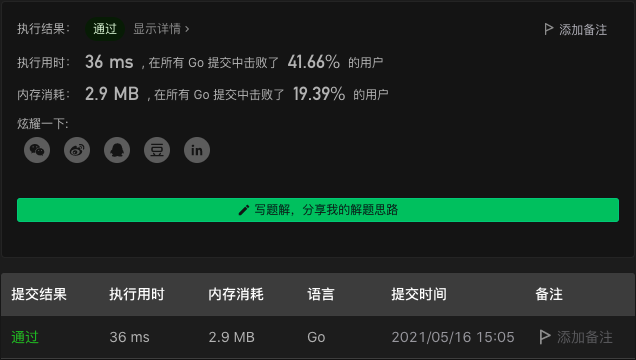
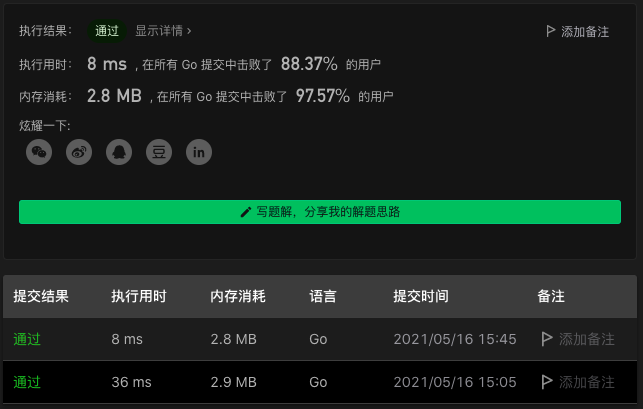
76. Minimum Window Substring

diff --git a/76. Minimum Window Substring.md b/76. Minimum Window Substring.md
@@ -11,69 +11,64 @@
 ```go
 func minWindow(s string, t string) string {
     var schars, tchars ['z'+1]int
-    tletters := map[byte]struct{}{}
     for i:=0; i<len(t); i++ {
         tchars[t[i]]++
-        tletters[t[i]] = struct{}{}
-    }
-
-    containChar := func(b byte) bool {
-        return tchars[b]!=0
     }
     
     containChars := func() bool {
-        for b := range tletters {
-            if schars[b]<tchars[b] { return false }
+        for b:='A'; b<='Z'; b++ {
+            if tchars[b]!=0 && schars[b]<tchars[b] { return false }
+        }
+        for b:='a'; b<='z'; b++ {
+            if tchars[b]!=0 && schars[b]<tchars[b] { return false }
         }
         return true
     }
 
-    slideOffset := func(b byte, offset int) int {
+    slideLeft := func(b byte, left int) int {
         schars[b]--
-        for offset++; offset<len(s)&&!containChar(s[offset]); offset++ {
-            schars[s[offset]]--
+        for left++; left<len(s)&&tchars[s[left]]==0; left++ {
+            schars[s[left]]--
         }
-        return offset
+        return left
     }
 
-    slideI := func(b byte, i int) int {
-        for i++; i<len(s)&&s[i]!=b; i++ {
-            schars[s[i]]++
+    slideRight := func(b byte, right int) int {
+        for right++; right<len(s); right++ {
+            schars[s[right]]++
+            if s[right]==b { break }
         }
-        return i
+        return right
     }
 
-    offset := 0
-    for ; offset<len(s)&&tchars[s[offset]]==0; offset++ {
-        schars[s[offset]]++
+    // 找到第一个滑动窗口的左边界
+    left := 0
+    for ; left<len(s)&&tchars[s[left]]==0; left++ {
+        schars[s[left]]++
+    }
+    // 找到第一个滑动窗口的右边界
+    right := left
+    for ; right<len(s); right++ {
+        schars[s[right]]++
+        if tchars[s[right]]!=0 && containChars() { break }
     }
 
-    minWin, found := s, false
-    for i:=offset; i<len(s); {
-        schars[s[i]]++
-        if !containChars() {
-            i++
-            continue
-        }
+    if right==len(s) { return "" }
 
-        found = true
-        if (i-offset+1)<len(minWin) {
-            minWin = s[offset:i+1]
-        }
-
-        b := s[offset]
-        offset = slideOffset(b, offset)
+    minWin := s[left:right+1]
+    b := s[left]
+    left = slideLeft(b, left)
+    for right<len(s) {
         for containChars() {
-            if (i-offset+1)<len(minWin) {
-                minWin = s[offset:i+1]
+            if (right-left+1)<len(minWin) {
+                minWin = s[left:right+1]
             }
-            b = s[offset]
-            offset = slideOffset(b, offset)
+            b = s[left]
+            left = slideLeft(b, left)
         }
-        i = slideI(b, i)
+        right = slideRight(b, right)
     }
-    if found { return minWin }
-    return ""
+    return minWin
 }
 ```
 
@@ -88,6 +83,8 @@ func minWindow(s string, t string) string {
 "ABC"
 "a"
 "a"
+"a"
+"b"
 "ADOBECODEBANC"
 "AB"
 "ADOBECODEBANC"
